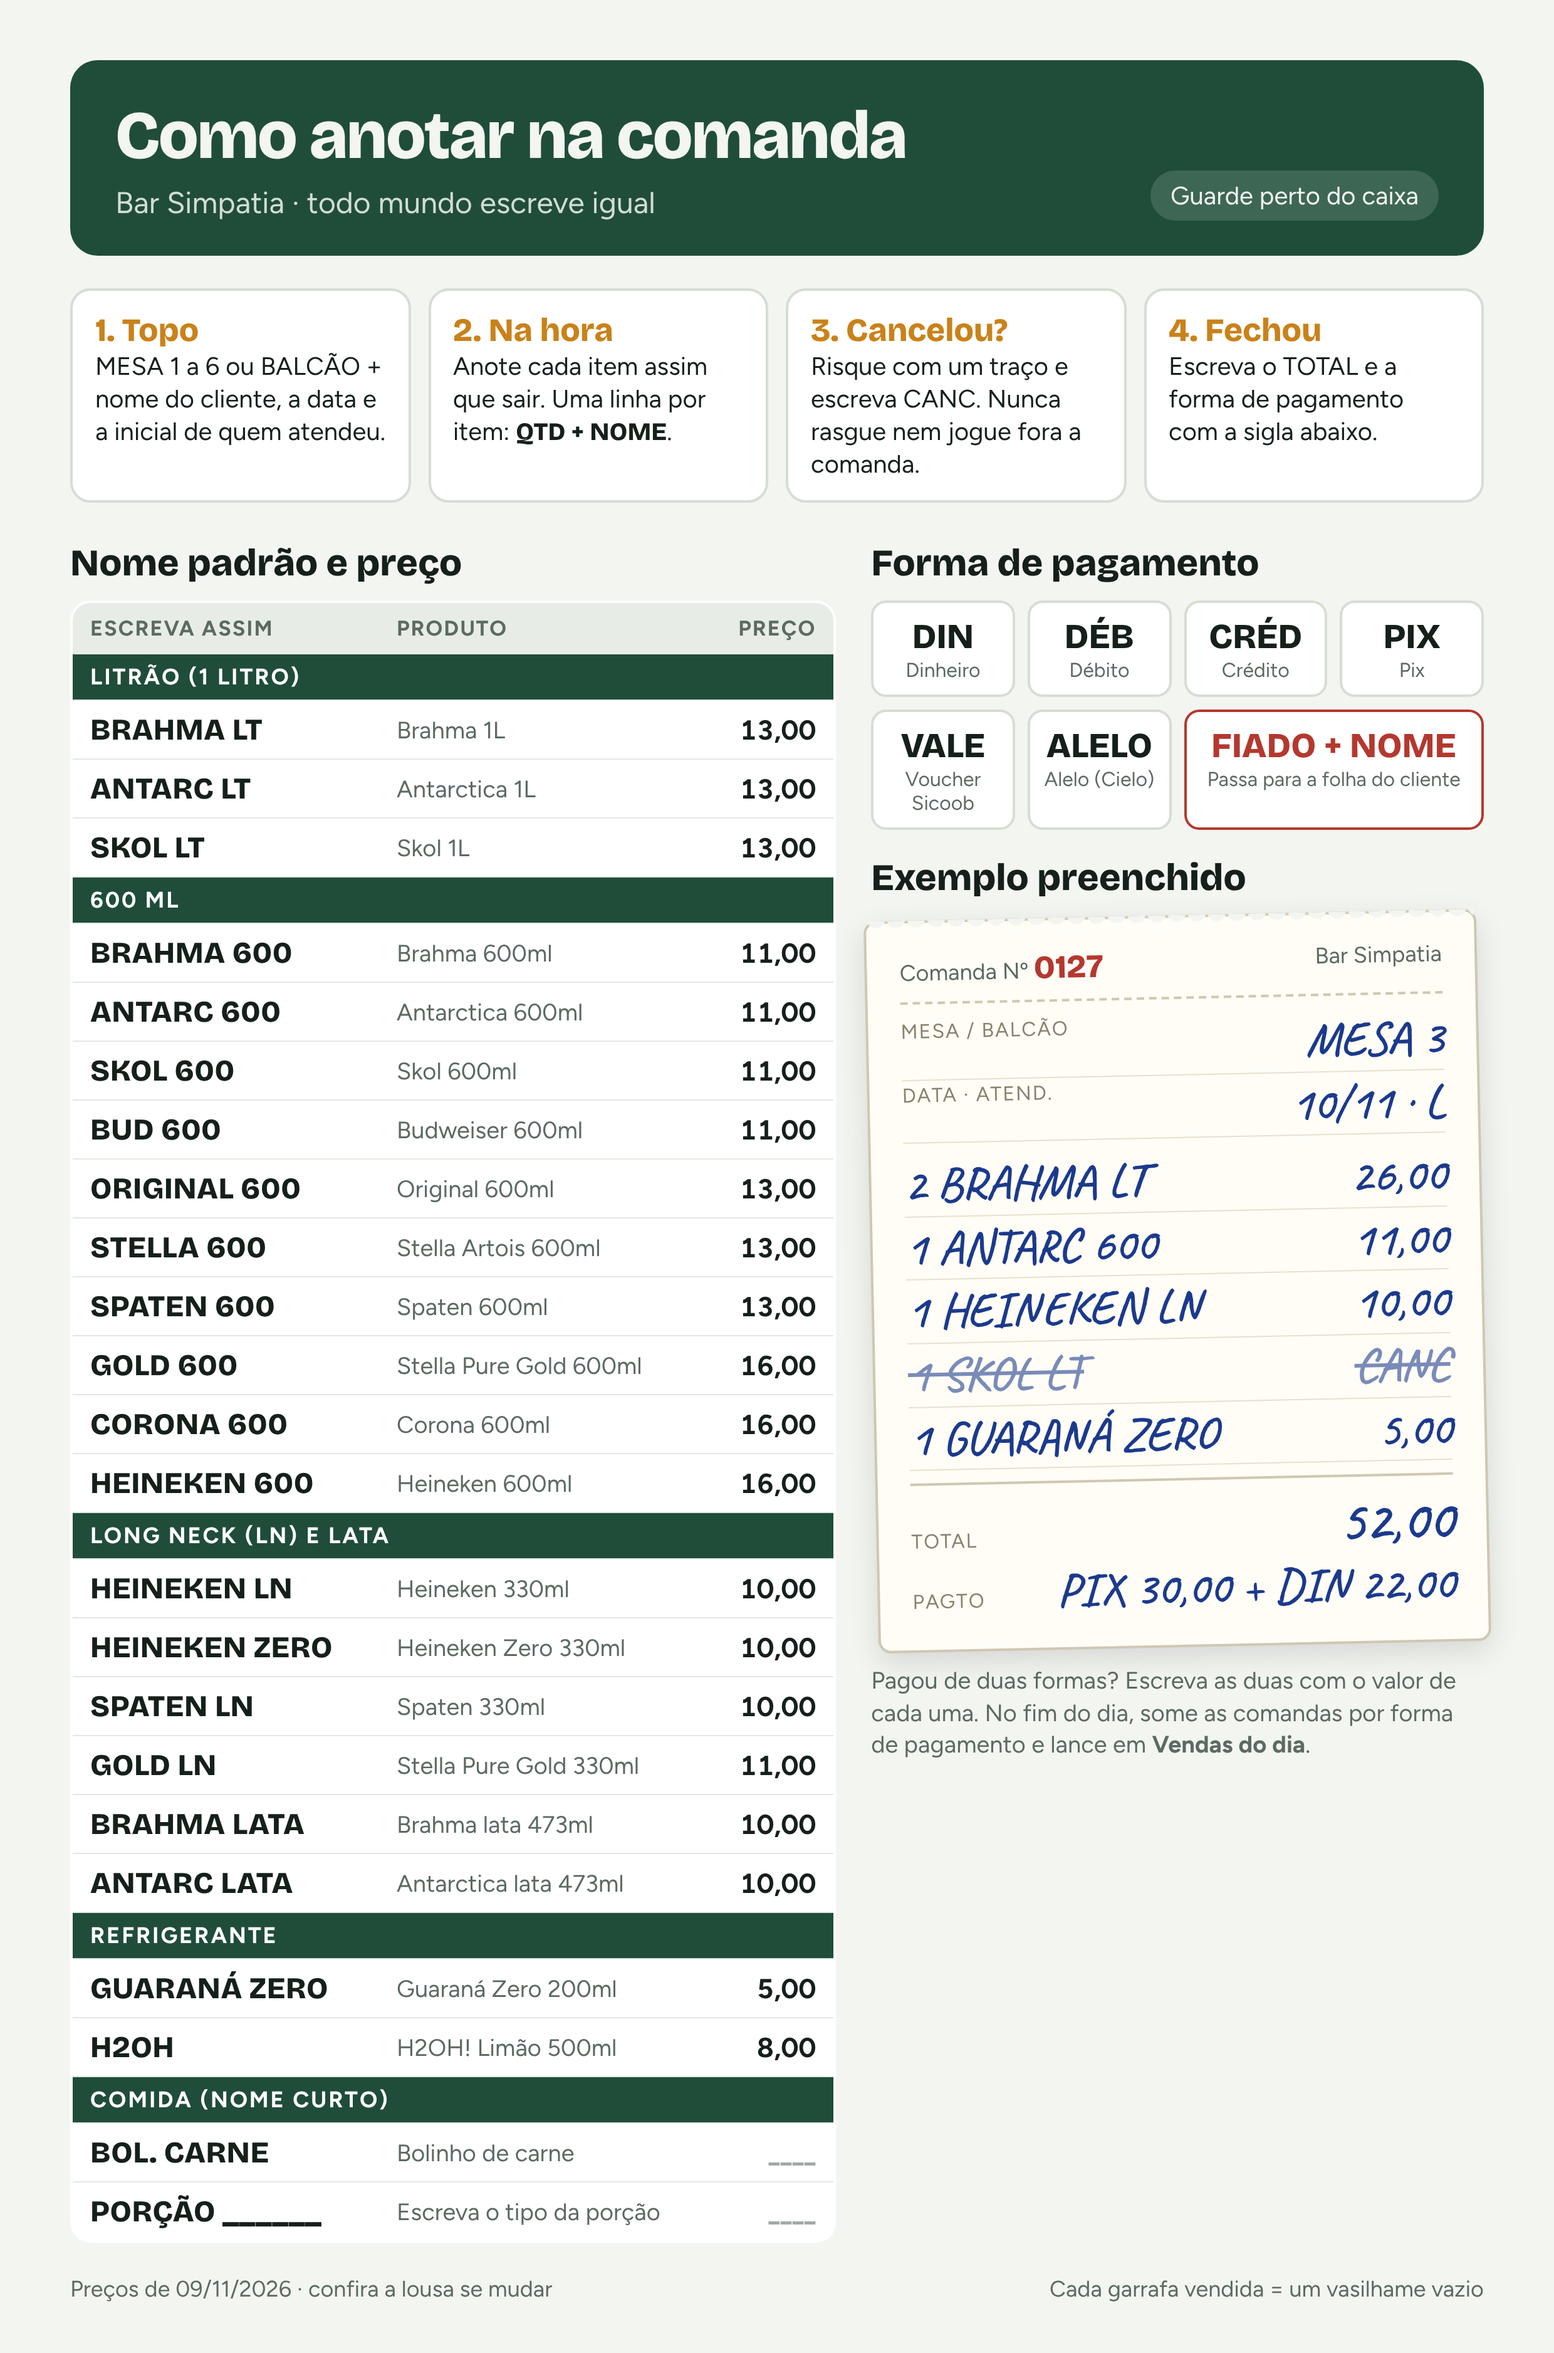
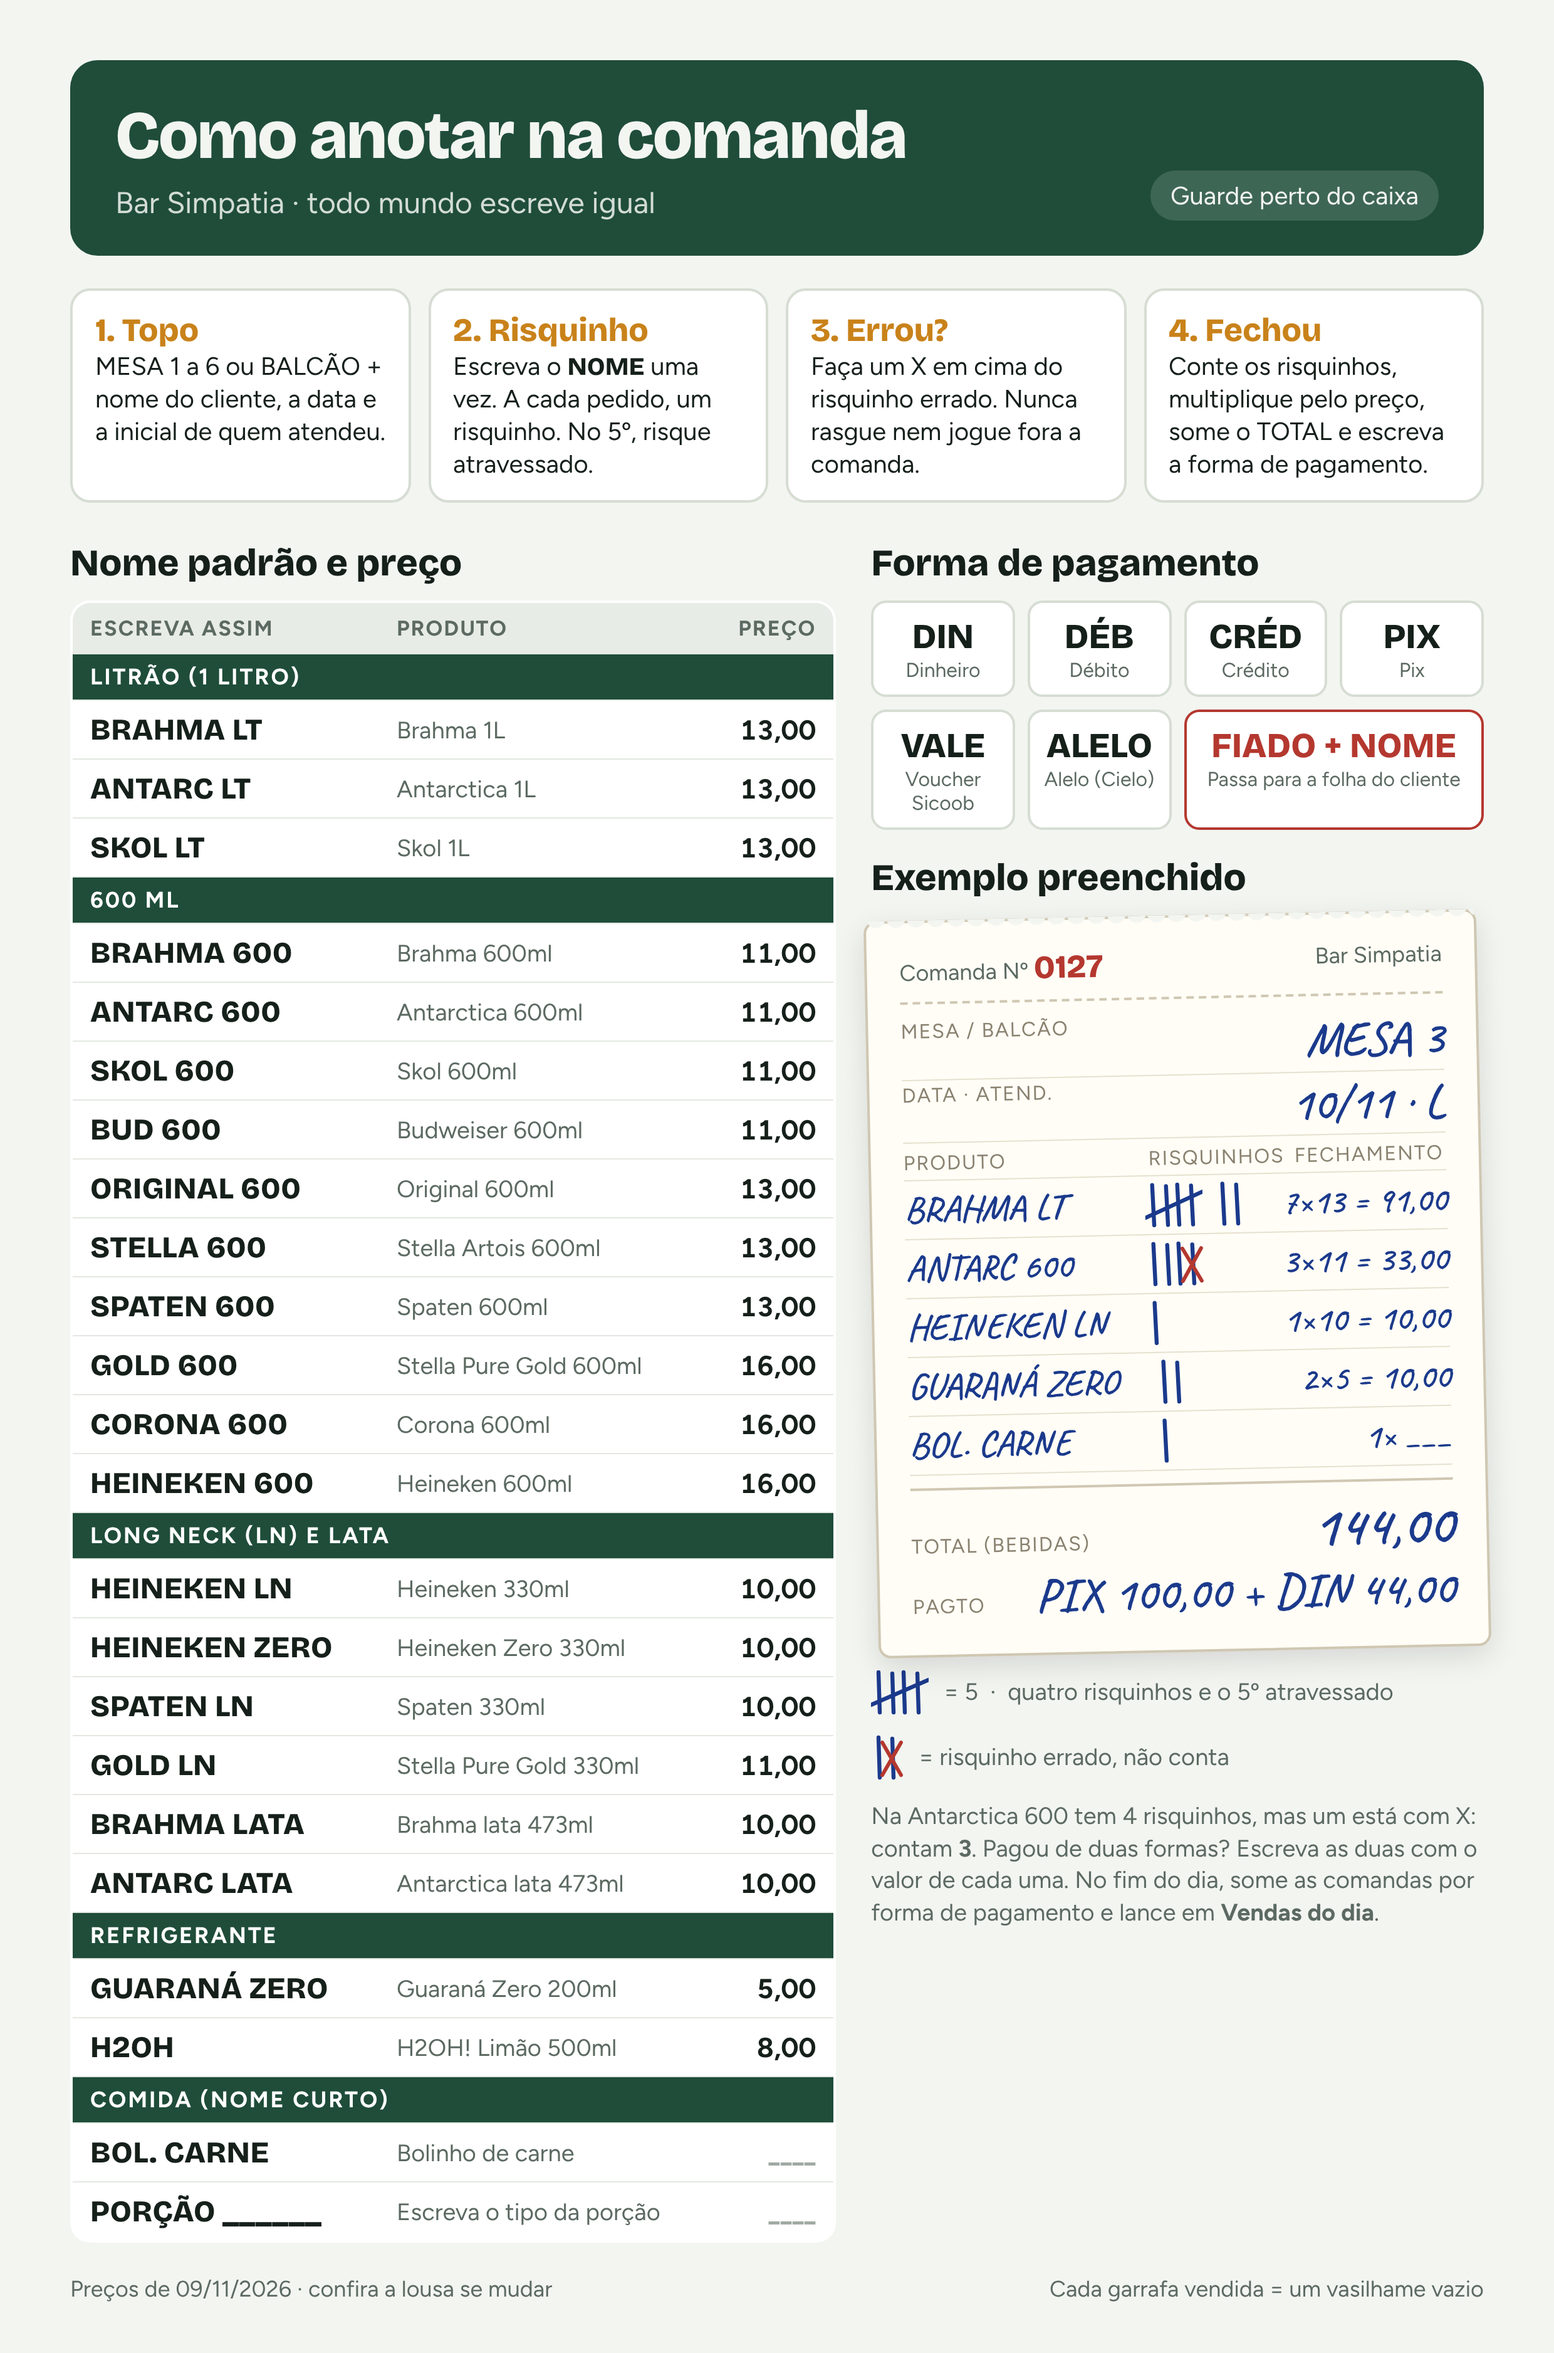
Use tally marks in the comanda guide
Claude-Session: https://claude.ai/code/session_015u3gRo2YEfpZ3yeME2Boui

diff --git a/comandas/padrao-comanda.html b/comandas/padrao-comanda.html
@@ -35,6 +35,13 @@ tr.sec td{background:#1F4D3A;color:#fff;font-weight:700;font-size:18px;text-tran
 .lbl{font-size:16px;color:#8A8270;text-transform:uppercase;letter-spacing:.06em}
 .canc{text-decoration:line-through;color:#7A8BB8}
 .tot{display:flex;justify-content:space-between;align-items:baseline;margin-top:10px;border-top:2px solid #CFC7B2;padding-top:8px}
+.cols{display:grid;grid-template-columns:1.55fr .85fr 1fr;gap:8px;margin-top:6px;padding-bottom:4px;border-bottom:1px solid #E6E0CF}
+.row3{display:grid;grid-template-columns:1.55fr .85fr 1fr;gap:8px;align-items:center;border-bottom:1px solid #E6E0CF;padding:3px 0}
+.row3 .hand{font-size:29px;white-space:nowrap}
+.row3 .sm{font-size:28px;text-align:right}
+.tally{display:inline-flex;gap:10px;align-items:center;height:40px}
+.tally svg{display:block}
+.legend{display:flex;align-items:center;gap:12px;font-size:19px;color:#5C6A62;margin-top:12px}
 .note{font-size:19px;color:#5C6A62;margin-top:14px;line-height:1.35}
 footer{margin-top:26px;font-size:18px;color:#5C6A62;display:flex;justify-content:space-between}
 </style></head><body><div class="page">
@@ -42,9 +49,9 @@ footer{margin-top:26px;font-size:18px;color:#5C6A62;display:flex;justify-content
 
 <div class="rules">
   <div class="rule"><b>1. Topo</b><span>MESA 1 a 6 ou BALCÃO + nome do cliente, a data e a inicial de quem atendeu.</span></div>
-  <div class="rule"><b>2. Na hora</b><span>Anote cada item assim que sair. Uma linha por item: <b style="display:inline;font-size:20px;color:#16201B">QTD + NOME</b>.</span></div>
-  <div class="rule"><b>3. Cancelou?</b><span>Risque com um traço e escreva CANC. Nunca rasgue nem jogue fora a comanda.</span></div>
-  <div class="rule"><b>4. Fechou</b><span>Escreva o TOTAL e a forma de pagamento com a sigla abaixo.</span></div>
+  <div class="rule"><b>2. Risquinho</b><span>Escreva o <b style="display:inline;font-size:20px;color:#16201B">NOME</b> uma vez. A cada pedido, um risquinho. No 5º, risque atravessado.</span></div>
+  <div class="rule"><b>3. Errou?</b><span>Faça um X em cima do risquinho errado. Nunca rasgue nem jogue fora a comanda.</span></div>
+  <div class="rule"><b>4. Fechou</b><span>Conte os risquinhos, multiplique pelo preço, some o TOTAL e escreva a forma de pagamento.</span></div>
 </div>
 
 <div class="grid">
@@ -100,18 +107,36 @@ footer{margin-top:26px;font-size:18px;color:#5C6A62;display:flex;justify-content
     <div class="thead"><span>Comanda Nº <span class="no">0127</span></span><span>Bar Simpatia</span></div>
     <div class="line"><span class="lbl">Mesa / Balcão</span><span class="hand">MESA 3</span></div>
     <div class="line"><span class="lbl">Data · Atend.</span><span class="hand">10/11 · L</span></div>
-    <div style="margin-top:8px">
-      <div class="line hand"><span>2 BRAHMA LT</span><span>26,00</span></div>
-      <div class="line hand"><span>1 ANTARC 600</span><span>11,00</span></div>
-      <div class="line hand"><span>1 HEINEKEN LN</span><span>10,00</span></div>
-      <div class="line hand"><span class="canc">1 SKOL LT</span><span class="canc">CANC</span></div>
-      <div class="line hand"><span>1 GUARANÁ ZERO</span><span>5,00</span></div>
-    </div>
-    <div class="tot"><span class="lbl">Total</span><span class="hand" style="font-size:46px">52,00</span></div>
-    <div class="tot" style="border-top:0;margin-top:0;padding-top:0"><span class="lbl">Pagto</span><span class="hand">PIX 30,00 + DIN 22,00</span></div>
+    <div class="cols lbl"><span>Produto</span><span>Risquinhos</span><span>Fechamento</span></div>
+    <div class="row3"><span class="hand">BRAHMA LT</span><span class="tally" data-n="7"></span><span class="hand sm">7×13 = 91,00</span></div>
+    <div class="row3"><span class="hand">ANTARC 600</span><span class="tally" data-n="3" data-x="1"></span><span class="hand sm">3×11 = 33,00</span></div>
+    <div class="row3"><span class="hand">HEINEKEN LN</span><span class="tally" data-n="1"></span><span class="hand sm">1×10 = 10,00</span></div>
+    <div class="row3"><span class="hand">GUARANÁ ZERO</span><span class="tally" data-n="2"></span><span class="hand sm">2×5 = 10,00</span></div>
+    <div class="row3"><span class="hand">BOL. CARNE</span><span class="tally" data-n="1"></span><span class="hand sm">1× ___</span></div>
+    <div class="tot"><span class="lbl">Total (bebidas)</span><span class="hand" style="font-size:46px">144,00</span></div>
+    <div class="tot" style="border-top:0;margin-top:0;padding-top:0"><span class="lbl">Pagto</span><span class="hand">PIX 100,00 + DIN 44,00</span></div>
   </div>
-  <p class="note">Pagou de duas formas? Escreva as duas com o valor de cada uma. No fim do dia, some as comandas por forma de pagamento e lance em <b>Vendas do dia</b>.</p>
+  <div class="legend"><span class="tally" data-n="5"></span><span>= 5 &nbsp;·&nbsp; quatro risquinhos e o 5º atravessado</span></div>
+  <div class="legend"><span class="tally" data-n="1" data-x="1"></span><span>= risquinho errado, não conta</span></div>
+  <p class="note">Na Antarctica 600 tem 4 risquinhos, mas um está com X: contam <b>3</b>. Pagou de duas formas? Escreva as duas com o valor de cada uma. No fim do dia, some as comandas por forma de pagamento e lance em <b>Vendas do dia</b>.</p>
 </div>
 </div>
 <footer><span>Preços de 09/11/2026 · confira a lousa se mudar</span><span>Cada garrafa vendida = um vasilhame vazio</span></footer>
-</div></body></html>
+</div>
+<script>
+const ink="#1B3A8C";
+function group(k,x){ const w=k===5?46:k*10+6, ln=[]; for(let i=0;i<Math.min(k,4);i++){ const X=6+i*10+(i%2); ln.push(`<path d="M${X} ${4+(i%2)} L${X+1} 36" stroke="${ink}" stroke-width="3.2" stroke-linecap="round" fill="none"/>`); }
+  if(k===5) ln.push(`<path d="M0 30 L46 10" stroke="${ink}" stroke-width="3.2" stroke-linecap="round" fill="none"/>`);
+  return {w,ln}; }
+document.querySelectorAll(".tally").forEach(el=>{ let n=+el.dataset.n, x=+(el.dataset.x||0), out="";
+  const total=n+x; let left=total;
+  while(left>0){ const k=Math.min(5,left); const g=group(k); let extra="";
+    if(left<=x+ (k===left?0:0) && x>0 && left===total-n+(0)){}
+    out+=`<svg width="${g.w}" height="40" viewBox="0 0 ${g.w} 40">${g.ln.join("")}${extra}</svg>`; left-=k; }
+  if(x){ // X over the last mark
+    const svgs=el.innerHTML; }
+  el.innerHTML=out;
+  if(x){ const last=el.lastElementChild, w=+last.getAttribute("width"), X=w-6- (total%5===0?0:0);
+    const cx=(total%5===0)?40:6+((total-1)%5)*10; last.insertAdjacentHTML("beforeend",`<path d="M${cx-7} 8 L${cx+8} 34 M${cx+8} 8 L${cx-7} 34" stroke="#B4382F" stroke-width="3" stroke-linecap="round"/>`); }
+});
+</script></body></html>
